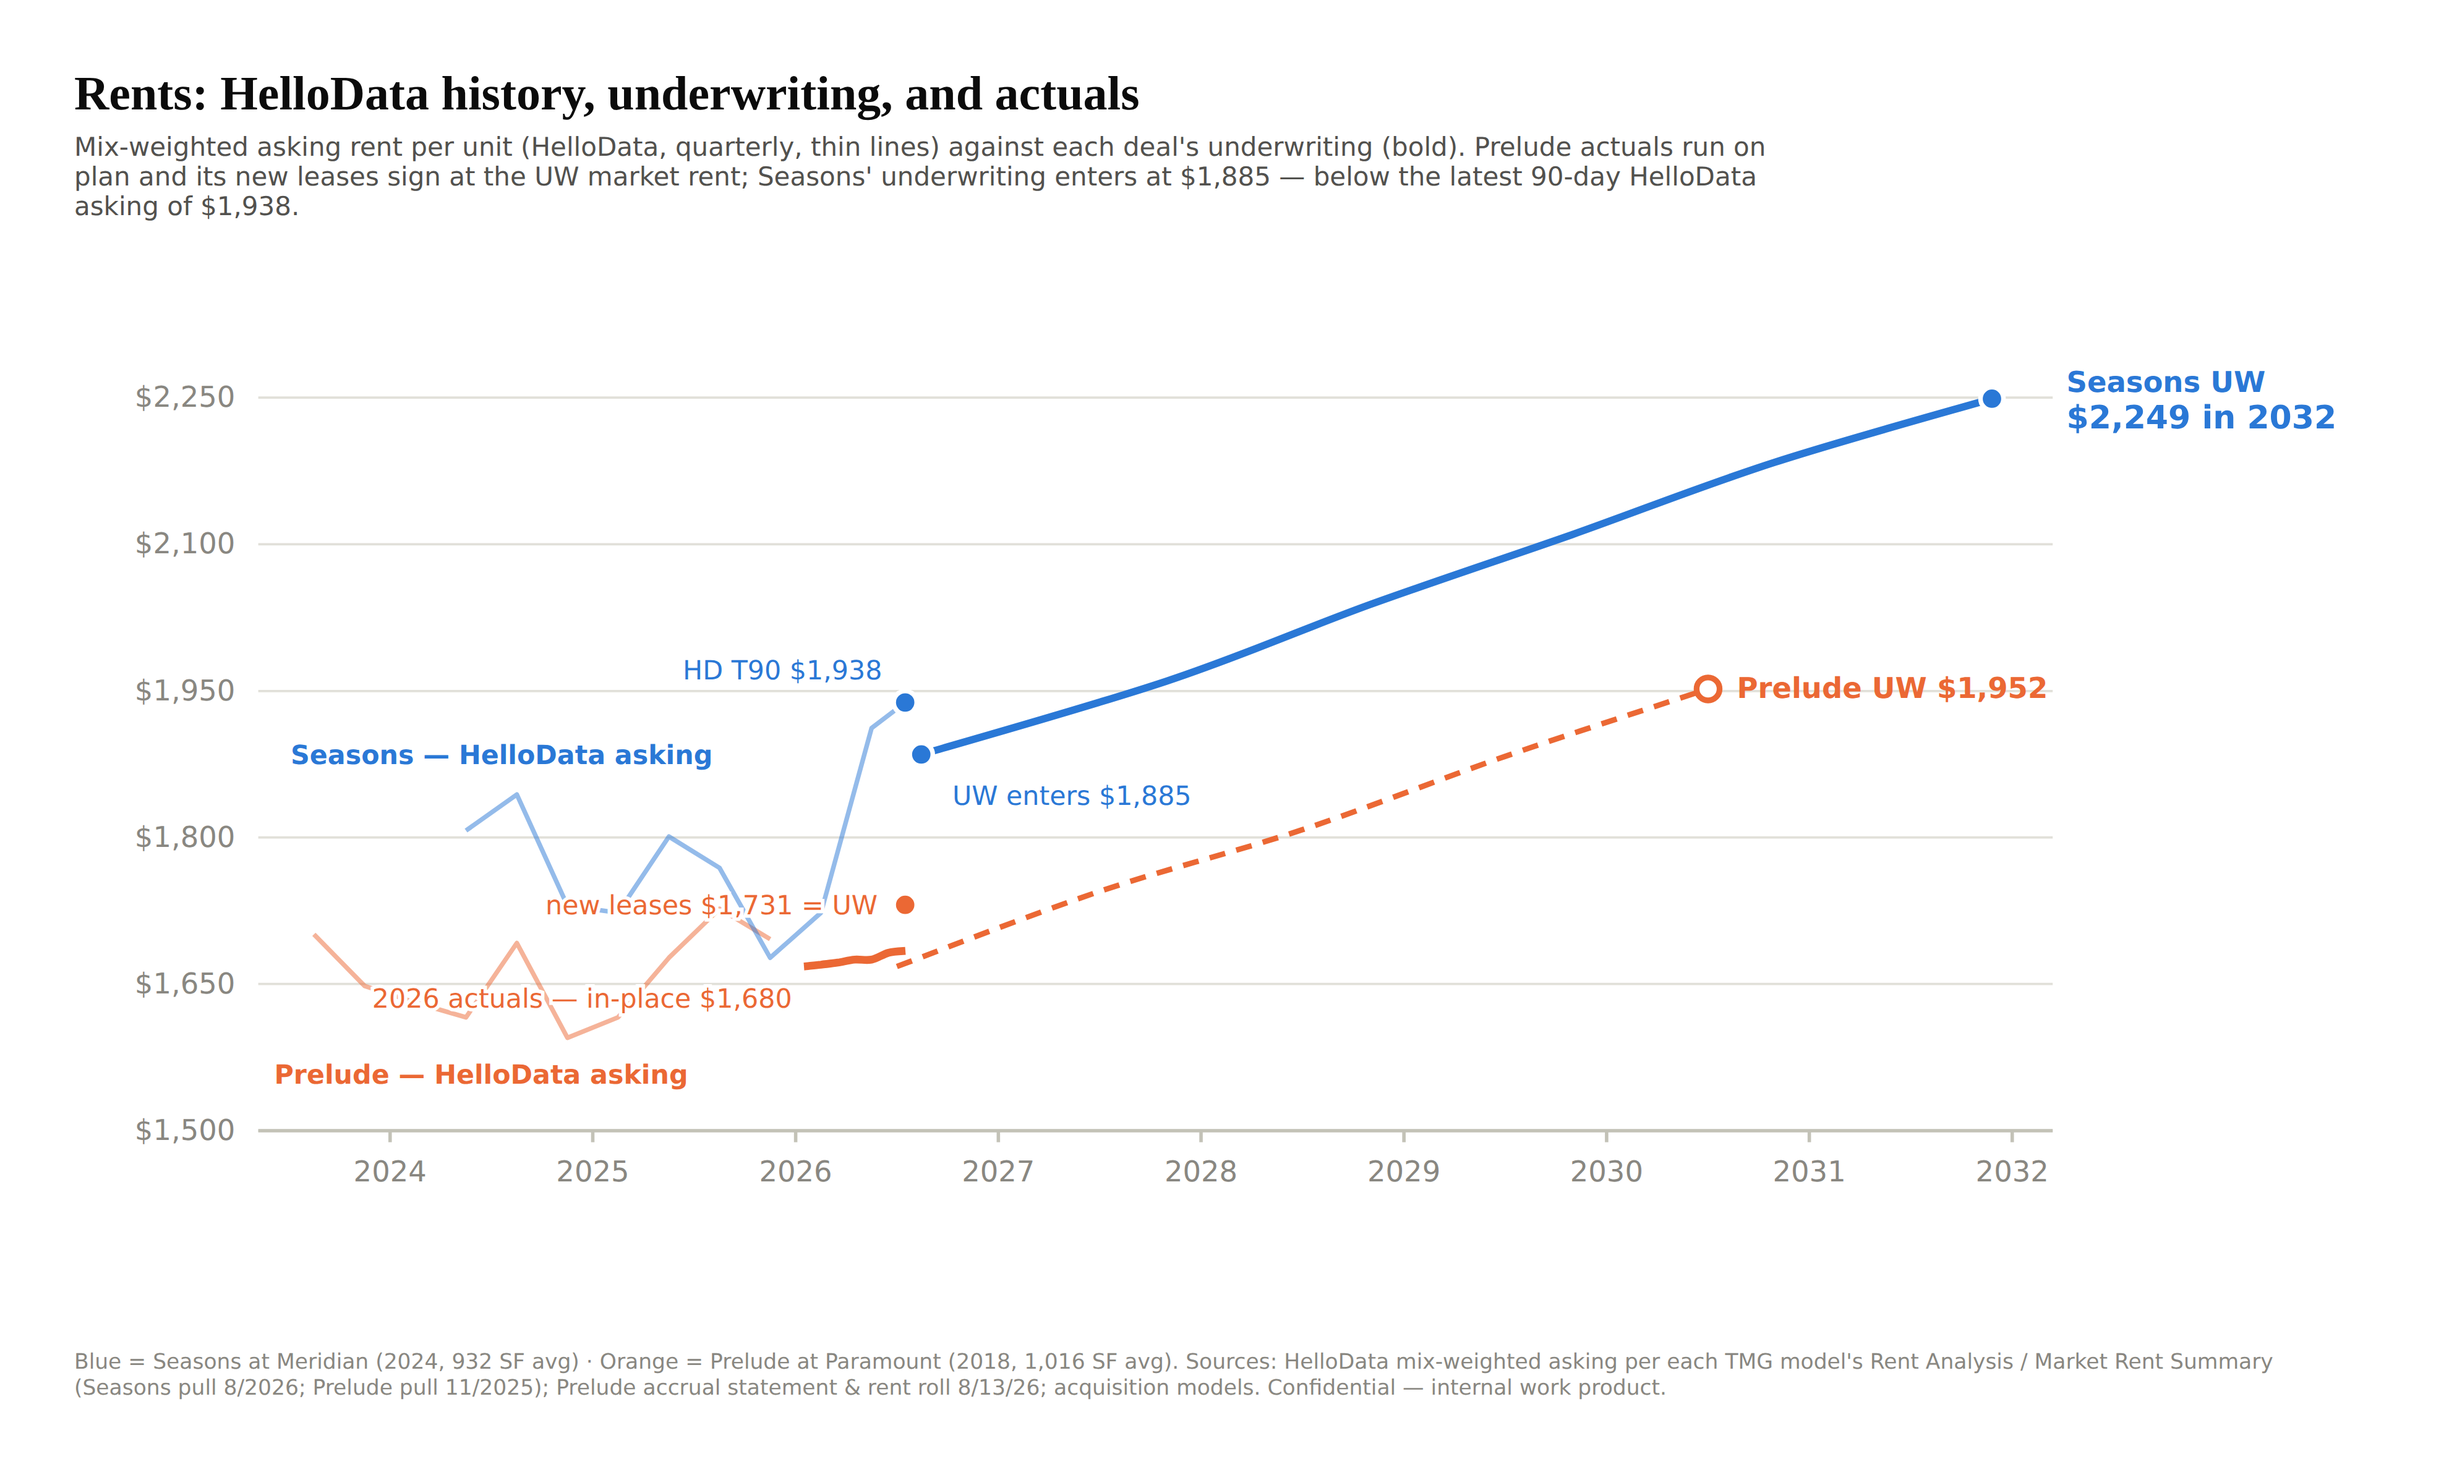
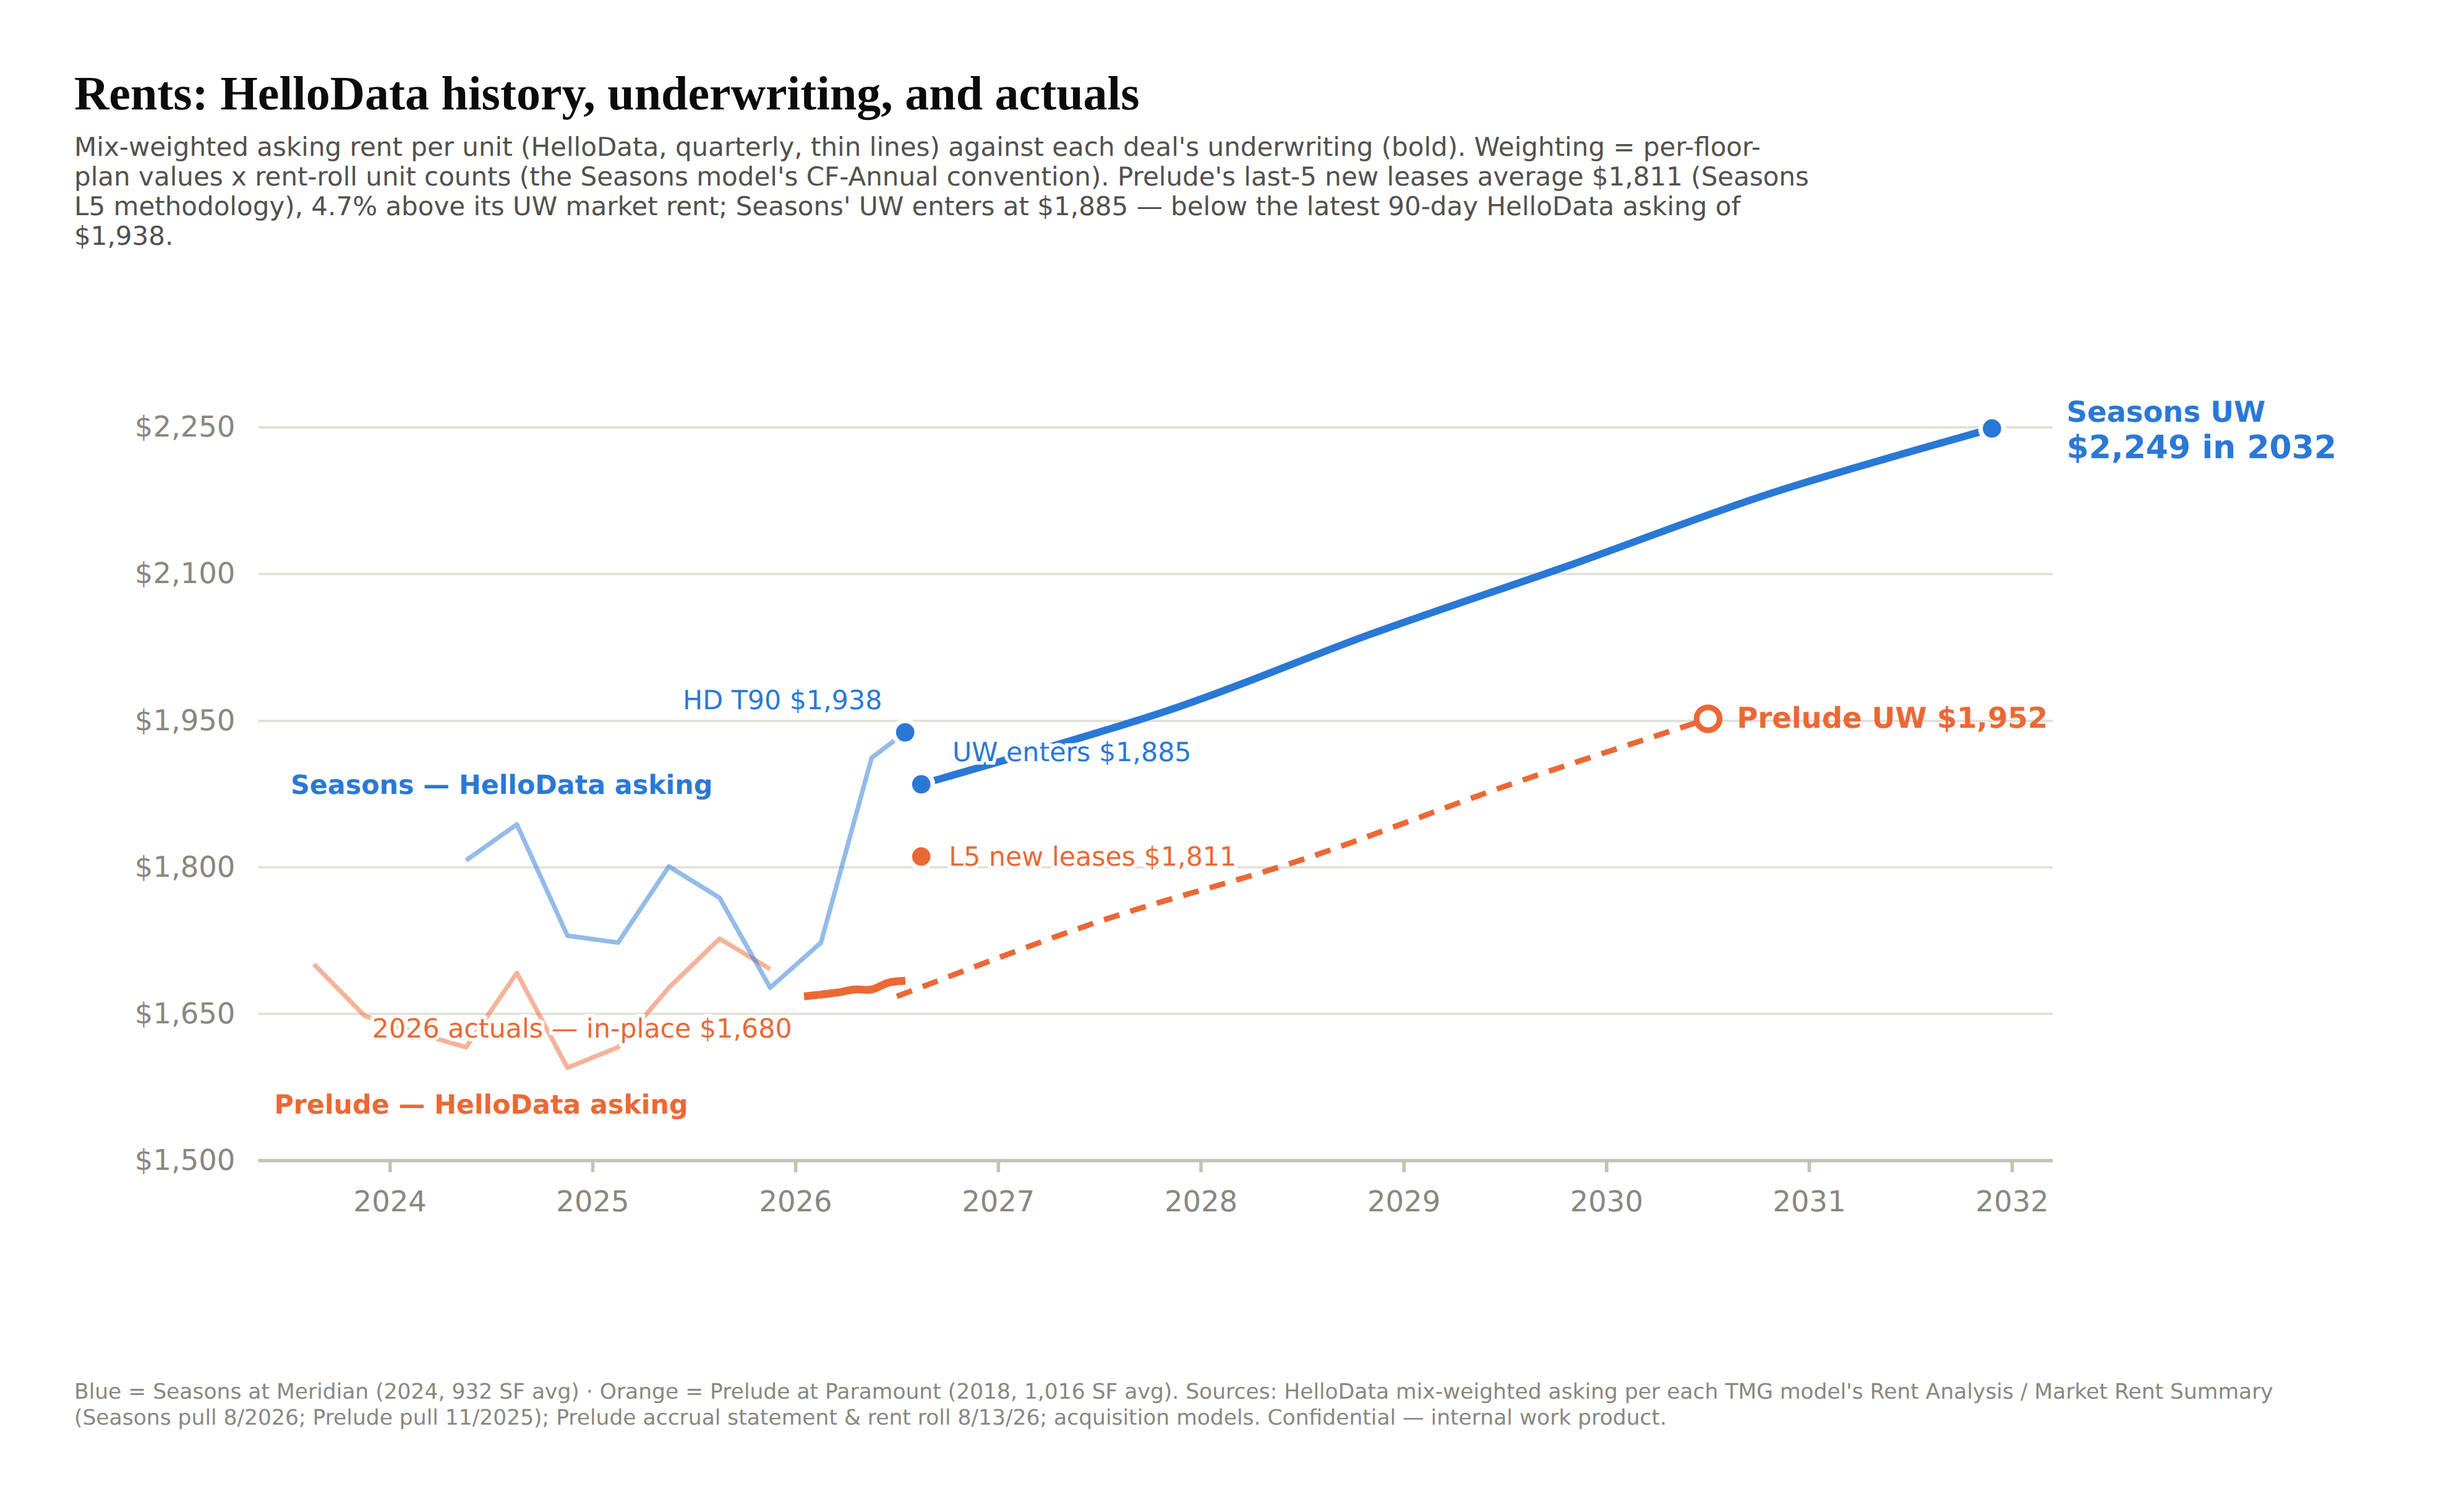
Chart-data workbook with verified mix-weighting and Prelude L5 new leases

diff --git a/knowledge/exhibits/build_chartdata.py b/knowledge/exhibits/build_chartdata.py
@@ -1,0 +1,157 @@
+#!/usr/bin/env python3
+"""Rent chart data workbook: HD mix-weighted series + UW paths + L5 new leases."""
+import openpyxl, json, datetime
+from openpyxl.styles import Font, PatternFill, Alignment, Border, Side
+from openpyxl.utils import get_column_letter
+wb=openpyxl.Workbook()
+F=lambda **k: Font(name="Arial", **{"size":10, **k})
+TITLE=F(bold=True,size=13); H1=F(bold=True,color='FFFFFF'); BOLD=F(bold=True)
+BLUE=F(color='0000FF'); BLACK=F(); GREEN=F(color='008000'); NOTE=F(italic=True,size=9,color='808080')
+HDR=PatternFill('solid',fgColor='1F3864'); SUB=PatternFill('solid',fgColor='D9E2F2')
+M0='$#,##0'; M2='$#,##0.00'; D='mm/dd/yyyy'; NUM='#,##0'
+def sheet(n,w):
+    ws=wb.create_sheet(n)
+    for i,x in enumerate(w,1): ws.column_dimensions[get_column_letter(i)].width=x
+    ws.sheet_view.showGridLines=False
+    return ws
+def put(ws,cell,v,f=BLACK,fmt=None,fill=None,wrap=False):
+    c=ws[cell]; c.value=v; c.font=f
+    if fmt: c.number_format=fmt
+    if fill: c.fill=fill
+    if wrap: c.alignment=Alignment(wrap_text=True,vertical='top')
+def hdr(ws,row,cols,texts):
+    for col,t in zip(cols,texts):
+        c=ws[f'{col}{row}']; c.value=t; c.font=H1; c.fill=HDR
+        c.alignment=Alignment(horizontal='center',wrap_text=True)
+
+QLAB=["Q3 23","Q4 23","Q1 24","Q2 24","Q3 24","Q4 24","Q1 25","Q2 25","Q3 25","Q4 25","Q1 26","Q2 26","T90 (Jun-Aug 26)"]
+SEA=[("S1_Seas",15,[1403,1403,1403,1403,1415,1351,1345,1509,1509,1325,1310,1544,1597]),
+     ("A1_Seas",120,[1479,1479,1479,1610,1586,1432,1447,1536,1518,1394,1483,1660,1691]),
+     ("A2_Seas",45,[1625,1625,1625,1625,1695,1676,1689,1771,1679,1556,1570,1692,1787]),
+     ("B1_Seas",30,[1805,1805,1805,1805,1960,1765,1737,1910,1799,1726,1805,2030,2050]),
+     ("B2_Seas",75,[1983,1983,1983,2045,2021,1945,2016,2007,1930,1838,1935,2125,2104]),
+     ("B3a_Seas",15,[1934,1934,1934,1934,2173,2173,1898,1807,1945,2135,1978,1978,2075]),
+     ("B3b_Seas",30,[1941,1941,1941,1941,2098,2098,1826,1958,1958,1866,1870,2102,2100]),
+     ("C1a_Seas",10,[2371,2371,2371,2371,2355,2355,2132,2296,2186,2326,2344,2579,2579]),
+     ("C1b_Seas",20,[2237,2237,2237,2237,2325,1855,2123,2248,2392,2280,2173,2554,2554])]
+PQLAB=["Q3 23","Q4 23","Q1 24","Q2 24","Q3 24","Q4 24","Q1 25","Q2 25","Q3 25","Q4 25 QTD"]
+PRE=[("1x1-pp (787sf)",106,[1493,1448,1434,1383,1373,1369,1342,1439,1465,1462]),
+     ("2x2a-pp (1092sf)",100,[1725,1706,1685,1698,1802,1629,1682,1718,1811,1795]),
+     ("2x2b-pp (1172sf)",30,[1895,1835,1798,1791,1818,1643,1698,1792,1838,1790]),
+     ("3x2-pp (1291sf)",44,[2015,1867,1870,1872,2125,2030,2072,2079,2088,1970])]
+
+# ---------------- HD_Weighting ----------------
+ws=sheet('HD_Weighting',[2,20,9]+[10]*13+[3])
+put(ws,'B2','HelloData Mix-Weighted Asking Rent — methodology = Seasons model Cash Flow (Annual) row 304',TITLE)
+put(ws,'B3','Per floor plan HelloData asking by period (blue, from each model), weighted by rent-roll unit counts: Weighted Avg = SUMPRODUCT(values x units) / SUM(units). Identical convention to CF(Annual)!AP304 and Rent Analysis row 59.',NOTE,wrap=True)
+put(ws,'B5','SEASONS AT MERIDIAN — source: TMG model Rent Analysis K9:W17 (HD pull 8/2026)',BOLD,fill=SUB)
+hdr(ws,6,['B','C']+[get_column_letter(4+i) for i in range(13)],['Floor plan','Units']+QLAB)
+r=7
+for plan,u,vals in SEA:
+    put(ws,f'B{r}',plan); put(ws,f'C{r}',u,BLUE,NUM)
+    for i,v in enumerate(vals): put(ws,f'{get_column_letter(4+i)}{r}',v,BLUE,M0)
+    r+=1
+put(ws,f'B{r}','WEIGHTED AVG',BOLD)
+put(ws,f'C{r}',f'=SUM(C7:C{r-1})',BOLD,NUM)
+for i in range(13):
+    col=get_column_letter(4+i)
+    put(ws,f'{col}{r}',f'=SUMPRODUCT({col}7:{col}{r-1},$C$7:$C${r-1})/SUM($C$7:$C${r-1})',BOLD,M0)
+SEA_W=r
+put(ws,f'B{r+1}','Note: Q3 23–Q1 24 are rent-roll backfill (pre-delivery), not real HelloData — excluded from Chart_Data.',NOTE,wrap=True)
+r+=3
+put(ws,f'B{r}','PRELUDE AT PARAMOUNT — source: Prelude model Market Rent Summary K7:T11 (HD pull 11/2025)',BOLD,fill=SUB)
+hdr(ws,r+1,['B','C']+[get_column_letter(4+i) for i in range(10)],['Floor plan','Units']+PQLAB)
+r0=r+2
+r=r0
+for plan,u,vals in PRE:
+    put(ws,f'B{r}',plan); put(ws,f'C{r}',u,BLUE,NUM)
+    for i,v in enumerate(vals): put(ws,f'{get_column_letter(4+i)}{r}',v,BLUE,M0)
+    r+=1
+put(ws,f'B{r}','WEIGHTED AVG',BOLD)
+put(ws,f'C{r}',f'=SUM(C{r0}:C{r-1})',BOLD,NUM)
+for i in range(10):
+    col=get_column_letter(4+i)
+    put(ws,f'{col}{r}',f'=SUMPRODUCT({col}{r0}:{col}{r-1},$C${r0}:$C${r-1})/SUM($C${r0}:$C${r-1})',BOLD,M0)
+PRE_W=r
+
+# ---------------- L5_New_Leases ----------------
+ws=sheet('L5_New_Leases',[2,22,14,14,14,50])
+put(ws,'B2','Last-5 New Leases — Seasons model methodology',TITLE)
+put(ws,'B3','Per floor plan: average of the 5 most recent new leases (by move-in) from the rent roll; property total = SUMPRODUCT(plan L5 avg x plan unit count) / total units — mirrors Seasons Assumptions L50:L58 / P49:T49.',NOTE,wrap=True)
+put(ws,'B5','PRELUDE AT PARAMOUNT — RR w/ lease charges 8/13/2026 (current residents)',BOLD,fill=SUB)
+l5=json.load(open('prelude_l5.json'))
+mix={'pprA1':106,'pprB1':100,'pprB2':30,'pprC1':44}
+r=6; plan_avg_rows={}
+for p in ['pprA1','pprB1','pprB2','pprC1']:
+    hdr(ws,r,['B','C','D'],[f'{p} — unit','Move-in','Rent'])
+    r+=1; first=r
+    for d,rent,uid in l5[p]:
+        put(ws,f'B{r}',uid); put(ws,f'C{r}',datetime.datetime.strptime(d,'%Y-%m-%d'),BLUE,D); put(ws,f'D{r}',rent,BLUE,M0)
+        r+=1
+    put(ws,f'B{r}','L5 avg',BOLD); put(ws,f'D{r}',f'=AVERAGE(D{first}:D{r-1})',BOLD,M0)
+    plan_avg_rows[p]=r
+    r+=2
+put(ws,f'B{r}','WEIGHTED SUMMARY',BOLD,fill=SUB)
+hdr(ws,r+1,['B','C','D'],['Floor plan','Units (mix)','L5 avg'])
+r0=r+2; r=r0
+for p in ['pprA1','pprB1','pprB2','pprC1']:
+    put(ws,f'B{r}',p); put(ws,f'C{r}',mix[p],BLUE,NUM); put(ws,f'D{r}',f'=D{plan_avg_rows[p]}',GREEN,M0)
+    r+=1
+put(ws,f'B{r}','PRELUDE L5 MIX-WEIGHTED',BOLD)
+put(ws,f'D{r}',f'=SUMPRODUCT(D{r0}:D{r-1},C{r0}:C{r-1})/SUM(C{r0}:C{r-1})',BOLD,M0)
+put(ws,f'F{r}','Result: $1,810.62 — vs Prelude UW Y1 market rent $1,730: +4.7%.',NOTE,wrap=True)
+PL5=r
+r+=2
+put(ws,f'B{r}','SEASONS AT MERIDIAN — model Assumptions L50:L58 (8/4/26 RR), for comparison',BOLD,fill=SUB)
+hdr(ws,r+1,['B','C','D'],['Floor plan','Units','L5 avg'])
+sl5=[("S1_Seas",15,1495.8),("A1_Seas",120,1679),("A2_Seas",45,1766.4),("B1_Seas",30,1901.8),("B2_Seas",75,2074),("B3a_Seas",15,2012.4),("B3b_Seas",30,2066.2),("C1a_Seas",10,2497.8),("C1b_Seas",20,2266.4)]
+r0=r+2; r=r0
+for p,u,v in sl5:
+    put(ws,f'B{r}',p); put(ws,f'C{r}',u,BLUE,NUM); put(ws,f'D{r}',v,BLUE,M0); r+=1
+put(ws,f'B{r}','SEASONS L5 MIX-WEIGHTED',BOLD)
+put(ws,f'D{r}',f'=SUMPRODUCT(D{r0}:D{r-1},C{r0}:C{r-1})/SUM(C{r0}:C{r-1})',BOLD,M0)
+put(ws,f'F{r}','Ties to model Starting Market Rent $1,884.69.',NOTE)
+SL5=r
+
+# ---------------- Chart_Data ----------------
+ws=sheet('Chart_Data',[2,13,15,15,15,15,15,17,15,44])
+put(ws,'B2','Chart Data — plot-ready series',TITLE)
+put(ws,'B3','One row per date. Green = computed on HD_Weighting / L5_New_Leases (mix-weighted); blue = extracted from models/statements. Quarterly HD points plotted at quarter midpoints.',NOTE,wrap=True)
+hdr(ws,5,['B','C','D','E','F','G','H','I'],
+    ['Date','Seasons HD asking (mix-wtd)','Seasons UW asking','Seasons L5 / UW entry','Prelude HD asking (mix-wtd)','Prelude UW rent/occ','Prelude actual in-place','Prelude L5 (8/13/26)'])
+def qmid(lbl):
+    q,y=lbl.split()[0],int(lbl.split()[1][:2])+2000
+    m={'Q1':2,'Q2':5,'Q3':8,'Q4':11}[q]
+    return datetime.datetime(y,m,15)
+rows=[]
+for i in range(3,13):  # Seasons real HD from Q2'24 (idx3) .. Q2'26 (idx11) + T90 idx12
+    dt = qmid(QLAB[i]) if i<12 else datetime.datetime(2026,7,15)
+    rows.append((dt,'C',f"=HD_Weighting!{get_column_letter(4+i)}{SEA_W}"))
+for dt,v in [(datetime.datetime(2026,8,4),None)]:
+    rows.append((dt,'E',f"=L5_New_Leases!D{SL5}"))
+for dt,v in [(datetime.datetime(2026,8,4),1885),(datetime.datetime(2027,11,1),1960),(datetime.datetime(2028,11,1),2038),(datetime.datetime(2029,11,1),2110),(datetime.datetime(2030,11,1),2184),(datetime.datetime(2031,11,1),2249)]:
+    rows.append((dt,'D',v))
+for i in range(10):
+    rows.append((qmid(PQLAB[i].replace(' QTD','')),'F',f"=HD_Weighting!{get_column_letter(4+i)}{PRE_W}"))
+for dt,v in [(datetime.datetime(2026,7,1),1668),(datetime.datetime(2027,7,1),1745),(datetime.datetime(2028,7,1),1808),(datetime.datetime(2029,7,1),1883),(datetime.datetime(2030,7,1),1952)]:
+    rows.append((dt,'G',v))
+for m,v in enumerate([1668,1670,1672,1675,1675,1682,1684]):
+    rows.append((datetime.datetime(2026,m+1,15),'H',v))
+rows.append((datetime.datetime(2026,8,13),'I',f"=L5_New_Leases!D{PL5}"))
+from collections import defaultdict
+bydate=defaultdict(dict)
+for dt,col,v in rows: bydate[dt][col]=v
+r=6
+for dt in sorted(bydate):
+    put(ws,f'B{r}',dt,BLACK,D)
+    for col,v in bydate[dt].items():
+        if isinstance(v,str): put(ws,f'{col}{r}',v,GREEN,M0)
+        else: put(ws,f'{col}{r}',v,BLUE,M0)
+    r+=1
+put(ws,f'B{r+1}','Sources: Seasons TMG model Rent Analysis (HD 8/2026) & Assumptions (UW path: $1,885 flat Y1, then +4/4/3.5/3.5/3% annual Nov steps); Prelude model Market Rent Summary (HD 11/2025) & Unleveraged (UW rent/occupied); Prelude accrual statement (2026 in-place = potential rent net LTL /280); rent roll 8/13/26 (L5). Seasons Q3 23-Q1 24 HD backfill excluded.',NOTE,wrap=True)
+ws.merge_cells(f'B{r+1}:J{r+3}')
+
+del wb['Sheet']
+wb.move_sheet('Chart_Data', offset=-2)
+wb.save('Rent_Chart_Data.xlsx')
+print('saved')

diff --git a/knowledge/exhibits/make_png2.py b/knowledge/exhibits/make_png2.py
@@ -46,7 +46,7 @@ out.append(txt(sx(2026.54)-10,sy(1938)-10,"HD T90 $1,938","itemsub c1t","end"))
 sea_uw=[(2026.62,1885),(2027.83,1960),(2028.83,2038),(2029.83,2110),(2030.83,2184),(2031.9,2249)]
 out.append(f'<path d="{smooth(P(sea_uw))}" class="line seasons"/>')
 out.append(f'<circle cx="{sx(2026.62):.1f}" cy="{sy(1885):.1f}" r="5" class="dot c1"/>')
-out.append(txt(sx(2026.75)+2,sy(1885)+22,"UW enters $1,885","itemsub c1t","start"))
+out.append(txt(sx(2026.75)+2,sy(1885)-10,"UW enters $1,885","itemsub c1t","start"))
 out.append(f'<circle cx="{sx(2031.9):.1f}" cy="{sy(2249):.1f}" r="5" class="dot c1"/>')
 out.append(txt(866,sy(2249),"Seasons UW","seriesnote c1t","start",dy=-3))
 out.append(txt(866,sy(2249),"$2,249 in 2032","seriesval c1t","start",dy=13))
@@ -61,8 +61,8 @@ out.append(txt(sx(2030.62)+2,sy(1952)+4,"Prelude UW $1,952","seriesnote c2t","st
 act=[(2026+(m+0.5)/12,v) for m,v in enumerate([1668,1670,1672,1675,1675,1682,1684])]
 out.append(f'<path d="{smooth(P(act))}" class="line actual"/>')
 out.append(txt(sx(2026.05)-6,sy(1668)+18,"2026 actuals — in-place $1,680","itemsub c2t","end"))
-out.append(f'<circle cx="{sx(2026.54):.1f}" cy="{sy(1731):.1f}" r="5" class="dot c2"/>')
-out.append(txt(sx(2026.54)-12,sy(1731)+4,"new leases $1,731 = UW","itemsub c2t","end"))
+out.append(f'<circle cx="{sx(2026.62):.1f}" cy="{sy(1811):.1f}" r="5" class="dot c2"/>')
+out.append(txt(sx(2026.62)+12,sy(1811)+4,"L5 new leases $1,811","itemsub c2t","start"))
 out.append('</svg>')
 svg=''.join(out)
 
@@ -96,8 +96,9 @@ text{{font-family:system-ui,-apple-system,"Segoe UI",sans-serif}}
 <div class="frame" id="frame">
 <h1>Rents: HelloData history, underwriting, and actuals</h1>
 <p class="sub">Mix-weighted asking rent per unit (HelloData, quarterly, thin lines) against each deal's underwriting (bold).
-Prelude actuals run on plan and its new leases sign at the UW market rent; Seasons' underwriting enters at $1,885 —
-below the latest 90-day HelloData asking of $1,938.</p>
+Weighting = per-floor-plan values x rent-roll unit counts (the Seasons model's CF-Annual convention). Prelude's last-5 new
+leases average $1,811 (Seasons L5 methodology), 4.7% above its UW market rent; Seasons' UW enters at $1,885 — below the
+latest 90-day HelloData asking of $1,938.</p>
 {svg}
 <p class="src">Blue = Seasons at Meridian (2024, 932 SF avg) · Orange = Prelude at Paramount (2018, 1,016 SF avg). Sources: HelloData mix-weighted asking per each TMG model's Rent Analysis / Market Rent Summary (Seasons pull 8/2026; Prelude pull 11/2025); Prelude accrual statement &amp; rent roll 8/13/26; acquisition models. Confidential — internal work product.</p>
 </div></body></html>"""
